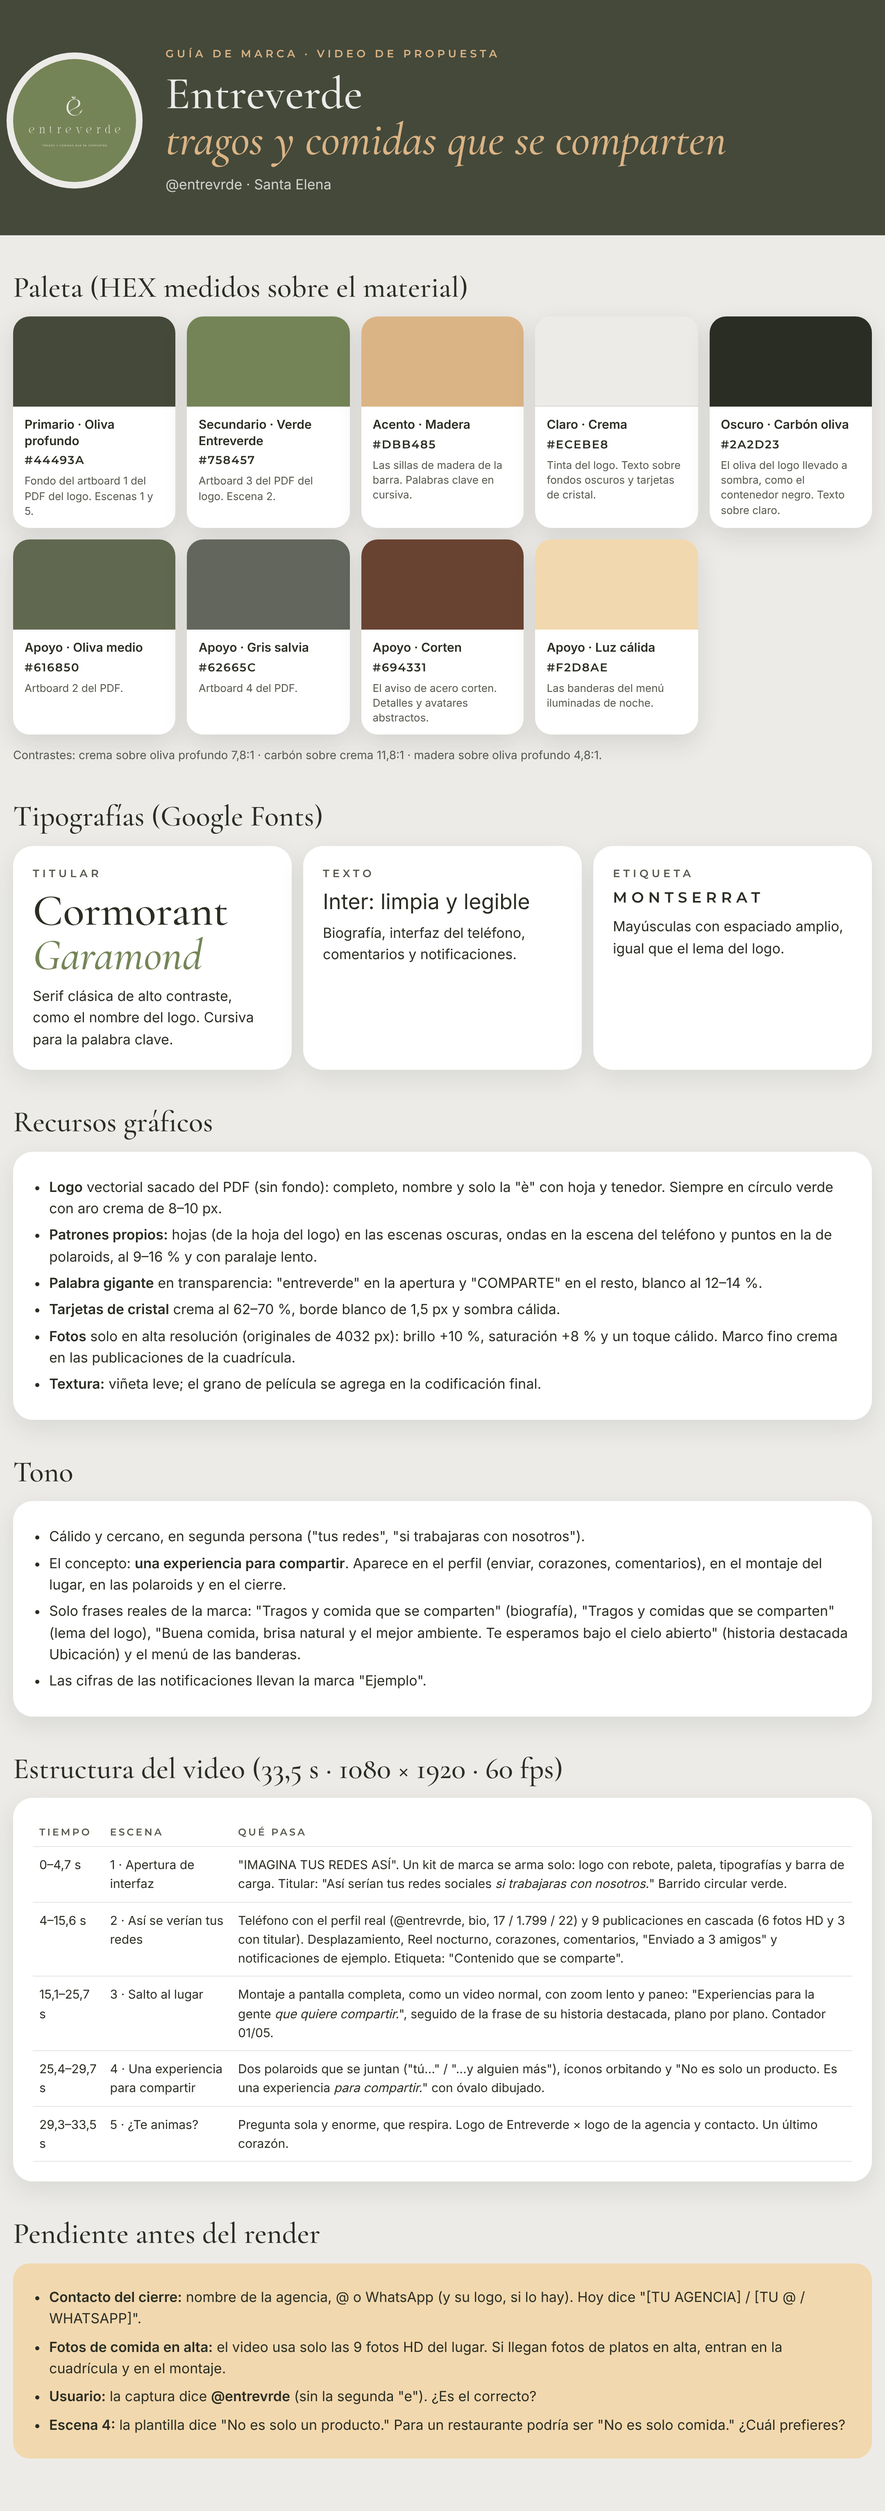
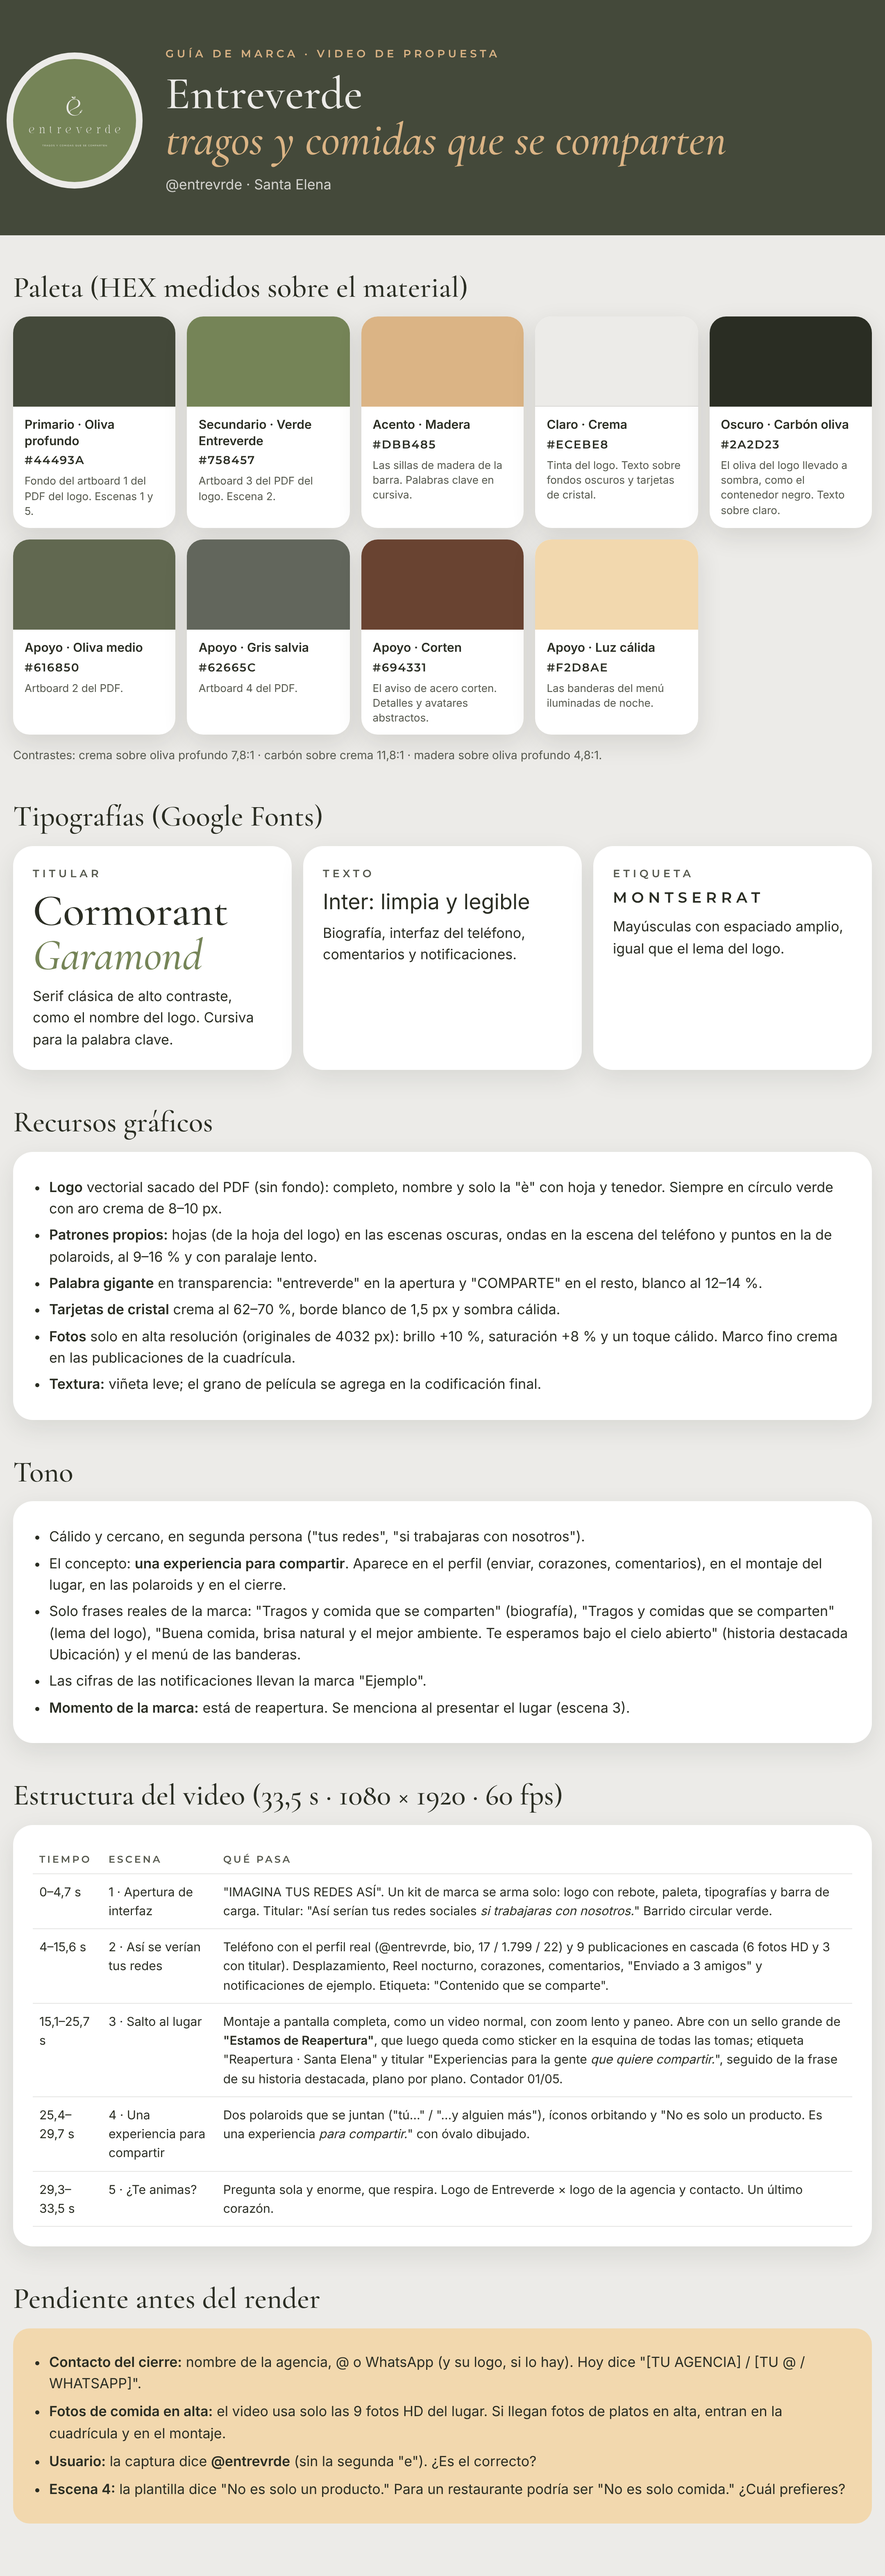
Entreverde: sello de reapertura al presentar el lugar
Claude-Session: https://claude.ai/code/session_0158hRDvWuK89MpYRw3tNaMC

diff --git a/entreverde/video/index.html b/entreverde/video/index.html
@@ -310,7 +310,7 @@ async function build() {
   // ================= ESCENA 3 · Montaje del lugar =================
   const s3 = el('div', 'scene', stage); S.s3 = s3; s3.style.background = C.primario;
   const shots = [
-    { src: 'hd_vertical_cielo', w: 1656, chip: 'Entreverde · Santa Elena', lines: ['Experiencias', 'para la gente', '<i style="color:' + C.acento + '">que quiere compartir.</i>'], size: 104, pan: [0.5, 0.5] },
+    { src: 'hd_vertical_cielo', w: 1656, chip: 'Reapertura · Santa Elena', lines: ['Experiencias', 'para la gente', '<i style="color:' + C.acento + '">que quiere compartir.</i>'], size: 104, pan: [0.5, 0.5] },
     { src: 'hd_aviso', w: 3926, chip: 'El lugar', lines: [B.destacada[0]], size: 128, pan: [0.48, 0.66] },
     { src: 'hd_terraza', w: 1656, chip: 'La terraza', lines: [B.destacada[1]], size: 128, pan: [0.5, 0.5] },
     { src: 'hd_banderas_noche', w: 2944, chip: 'Las noches', lines: [B.destacada[2]], size: 112, pan: [0.08, 0.72] },
@@ -326,6 +326,22 @@ async function build() {
     const ls = maskLines(capd, s.lines, 'tit', { fontSize: s.size + 'px' });
     return { ...s, d, im, chip, cnt, ls };
   });
+  // sello de reapertura: grande al abrir el montaje, luego queda como sticker en la esquina
+  const ring = `${B.reapertura.anillo} · `;
+  S.badge = el('div', 'abs', s3, `
+    <svg viewBox="0 0 360 360" width="360" height="360" style="position:absolute;left:0;top:0;overflow:visible">
+      <defs><path id="ringPath" d="M180,180 m-138,0 a138,138 0 1,1 276,0 a138,138 0 1,1 -276,0"/></defs>
+      <circle cx="180" cy="180" r="176" fill="${C.acento}"/>
+      <circle cx="180" cy="180" r="112" fill="none" stroke="${C.primario}" stroke-width="2" stroke-dasharray="3 7" opacity=".55"/>
+      <g class="ringTxt"><text font-family="Montserrat" font-weight="600" font-size="21" letter-spacing="4" fill="${C.primario}"><textPath href="#ringPath" textLength="856" lengthAdjust="spacing">${ring}</textPath></text></g>
+    </svg>
+    <div style="position:absolute;left:0;top:118px;width:360px;text-align:center;color:${C.primario}">
+      <div style="font:600 17px/1 ${B.fuentes.etiqueta};letter-spacing:.3em;text-transform:uppercase;opacity:.85">${B.reapertura.arriba}</div>
+      <div style="font:500 italic 76px/1.05 ${B.fuentes.titular};margin-top:8px">${B.reapertura.titulo}</div>
+      <div style="width:42px;margin:6px auto 0;color:${C.primario}">${LOGO.logo_marca}</div>
+    </div>`);
+  css(S.badge, { left: 0, top: 0, width: '360px', height: '360px', zIndex: 20, filter: 'drop-shadow(0 18px 40px rgba(42,45,35,.35))', transformOrigin: '50% 50%' });
+  S.badgeRing = S.badge.querySelector('.ringTxt');
 
   // ================= ESCENA 4 · Una experiencia para compartir =================
   const s4 = el('div', 'scene', stage); S.s4 = s4;
@@ -491,6 +507,11 @@ function render(t) {
       s.cnt.style.opacity = ck;
       s.ls.forEach((l, j) => { const lk = eo(P(t, a + .35 + j * .15, a + 1.0 + j * .15)); l.style.transform = `translateY(${(1 - lk) * 112}%)`; });
     });
+    // sello de reapertura
+    const bin = P(t, 15.45, 16.05), mv = eio(P(t, 17.15, 17.75)), bout = P(t, 25.35, 25.7);
+    const bx = lerp(740, 905, mv), by = lerp(430, 335, mv), bs = lerp(1, .5, mv) * lerp(.4, 1, back(bin));
+    css(S.badge, { opacity: clamp(bin * 3) * (1 - bout), transform: `translate(${bx - 180}px,${by - 180 + sin(t * 1.4) * 6 * (1 - mv)}px) scale(${bs}) rotate(${lerp(-24, 0, eo(bin))}deg)` });
+    S.badgeRing.setAttribute('transform', `rotate(${(t - 15.45) * 22} 180 180)`);
   }
 
   // ===================== ESCENA 4 =====================

diff --git a/entreverde/guia_marca.html b/entreverde/guia_marca.html
@@ -92,6 +92,7 @@ th{font:600 12px Montserrat;letter-spacing:.2em;text-transform:uppercase;color:#
   <li>El concepto: <b>una experiencia para compartir</b>. Aparece en el perfil (enviar, corazones, comentarios), en el montaje del lugar, en las polaroids y en el cierre.</li>
   <li>Solo frases reales de la marca: "Tragos y comida que se comparten" (biografía), "Tragos y comidas que se comparten" (lema del logo), "Buena comida, brisa natural y el mejor ambiente. Te esperamos bajo el cielo abierto" (historia destacada Ubicación) y el menú de las banderas.</li>
   <li>Las cifras de las notificaciones llevan la marca "Ejemplo".</li>
+  <li><b>Momento de la marca:</b> está de reapertura. Se menciona al presentar el lugar (escena 3).</li>
 </ul></div>
 
 <h2>Estructura del video (33,5 s · 1080 × 1920 · 60 fps)</h2>
@@ -99,7 +100,7 @@ th{font:600 12px Montserrat;letter-spacing:.2em;text-transform:uppercase;color:#
   <tr><th>Tiempo</th><th>Escena</th><th>Qué pasa</th></tr>
   <tr><td>0–4,7 s</td><td>1 · Apertura de interfaz</td><td>"IMAGINA TUS REDES ASÍ". Un kit de marca se arma solo: logo con rebote, paleta, tipografías y barra de carga. Titular: "Así serían tus redes sociales <i>si trabajaras con nosotros.</i>" Barrido circular verde.</td></tr>
   <tr><td>4–15,6 s</td><td>2 · Así se verían tus redes</td><td>Teléfono con el perfil real (@entrevrde, bio, 17 / 1.799 / 22) y 9 publicaciones en cascada (6 fotos HD y 3 con titular). Desplazamiento, Reel nocturno, corazones, comentarios, "Enviado a 3 amigos" y notificaciones de ejemplo. Etiqueta: "Contenido que se comparte".</td></tr>
-  <tr><td>15,1–25,7 s</td><td>3 · Salto al lugar</td><td>Montaje a pantalla completa, como un video normal, con zoom lento y paneo: "Experiencias para la gente <i>que quiere compartir.</i>", seguido de la frase de su historia destacada, plano por plano. Contador 01/05.</td></tr>
+  <tr><td>15,1–25,7 s</td><td>3 · Salto al lugar</td><td>Montaje a pantalla completa, como un video normal, con zoom lento y paneo. Abre con un sello grande de <b>"Estamos de Reapertura"</b>, que luego queda como sticker en la esquina de todas las tomas; etiqueta "Reapertura · Santa Elena" y titular "Experiencias para la gente <i>que quiere compartir.</i>", seguido de la frase de su historia destacada, plano por plano. Contador 01/05.</td></tr>
   <tr><td>25,4–29,7 s</td><td>4 · Una experiencia para compartir</td><td>Dos polaroids que se juntan ("tú…" / "…y alguien más"), íconos orbitando y "No es solo un producto. Es una experiencia <i>para compartir.</i>" con óvalo dibujado.</td></tr>
   <tr><td>29,3–33,5 s</td><td>5 · ¿Te animas?</td><td>Pregunta sola y enorme, que respira. Logo de Entreverde × logo de la agencia y contacto. Un último corazón.</td></tr>
 </table></div>

diff --git a/entreverde/video/brand.js b/entreverde/video/brand.js
@@ -36,6 +36,9 @@ window.BRAND = {
   // Texto real de la historia destacada "Ubicación"
   destacada: ["Buena comida,", "brisa natural", "y el mejor ambiente.", "Te esperamos", "bajo el cielo abierto."],
 
+  // Momento de la marca: reapertura (dato del cliente)
+  reapertura: { arriba: "Estamos de", titulo: "Reapertura", anillo: "Reapertura · Entreverde · Santa Elena" },
+
   // Cierre: contacto de la agencia (pendiente)
   agencia: { nombre: "[TU AGENCIA]", contacto: "[TU @ / WHATSAPP]" },
 };

diff --git a/entreverde/tools/music.py b/entreverde/tools/music.py
@@ -212,6 +212,8 @@ add(bell(1760, 0.045), 11.9, 1.0, 0.0, 0.3)               # "Enviado a 3 amigos"
 for tt in (12.6, 13.3):                                   # notificaciones
     add(bell(1318.5, 0.06), tt, 1.0, 0.0, 0.3)
     add(bell(1975.5, 0.045), tt + 0.09, 1.0, 0.0, 0.3)
+add(pop(0.12), 15.5, 1.0, 0.25, 0.2)                      # sello de reapertura
+add(bell(1568, 0.05), 15.58, 1.0, 0.25, 0.35)
 add(pop(0.06), 25.6, 1.0, -0.3, 0.15)                     # polaroids
 add(pop(0.06), 25.7, 1.0, 0.3, 0.15)
 add(bell(2349, 0.03), 31.95, 1.0, 0.0, 0.4)               # último corazón
